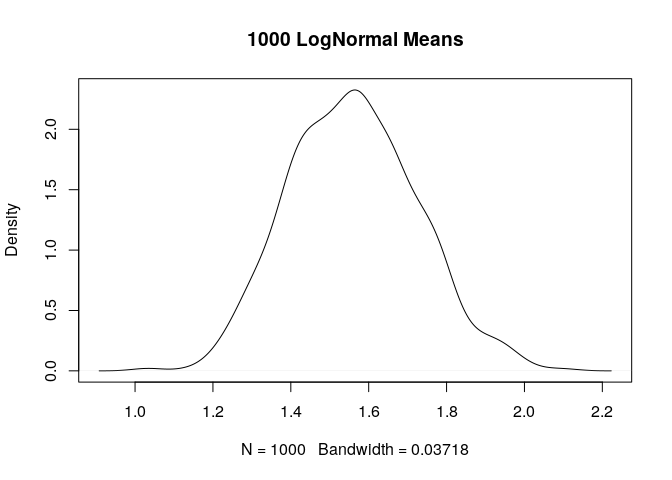
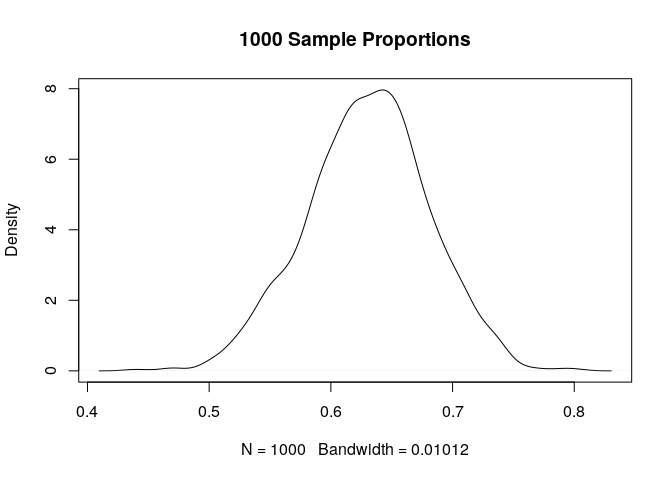
Finished Readme

diff --git a/README.md b/README.md
@@ -29,7 +29,7 @@ library(ResampleProps)
 My.LNorm.Means <- ResampleMean(rlnorm(100))
 summary(My.LNorm.Means)
 #>    Min. 1st Qu.  Median    Mean 3rd Qu.    Max. 
-#>   1.019   1.442   1.560   1.560   1.670   2.111
+#>   1.275   1.714   1.862   1.868   2.017   2.643
 ```
 
 ### Plot of the Resampled Means
@@ -49,13 +49,53 @@ Resampling a single proportion 1000 times is easy.
 My.Props <- ResampleProp(rbinom(100, size=1, prob = 0.4))
 summary(My.Props)
 #>    Min. 1st Qu.  Median    Mean 3rd Qu.    Max. 
-#>  0.4400  0.5600  0.5900  0.5906  0.6300  0.7500
+#>  0.4400  0.6000  0.6300  0.6302  0.6600  0.8000
 ```
 
 ### Plot of the Resampled Proportions
 
 ``` r
-plot(density(My.LNorm.Means), main="1000 LogNormal Means")
+plot(density(My.Props), main="1000 Sample Proportions")
 ```
 
 <img src="man/figures/README-unnamed-chunk-2-1.png" width="100%" />
+
+Difference of Means
+-------------------
+
+Resampling the difference in two means.
+
+``` r
+My.LNorm.Means2 <- ResampleDiffMeans(rlnorm(100), rlnorm(100, meanlog = 0.7))
+summary(My.LNorm.Means2)
+#>    Min. 1st Qu.  Median    Mean 3rd Qu.    Max. 
+#> -3.1594 -1.7228 -1.4049 -1.4324 -1.1260 -0.2088
+```
+
+### Plot of the Resampled Means
+
+``` r
+plot(density(My.LNorm.Means2), main="1000 Difference of Means")
+```
+
+<img src="man/figures/README-unnamed-chunk-3-1.png" width="100%" />
+
+Twp Proportions
+---------------
+
+Resampling a difference in proportions 1000 times is easy.
+
+``` r
+My.Props2 <- ResampleDiffProps(rbinom(100, size=1, prob = 0.4),rbinom(100, size=1, prob = 0.5))
+summary(My.Props2)
+#>    Min. 1st Qu.  Median    Mean 3rd Qu.    Max. 
+#> -0.1000  0.0800  0.1300  0.1289  0.1800  0.3400
+```
+
+### Plot of the Resampled Difference in Proportions
+
+``` r
+plot(density(My.Props2), main="1000 Differences in Proportions")
+```
+
+<img src="man/figures/README-unnamed-chunk-4-1.png" width="100%" />
